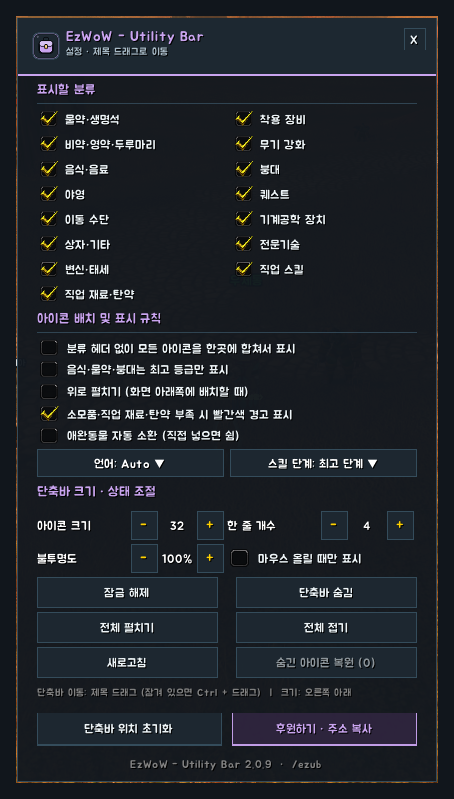
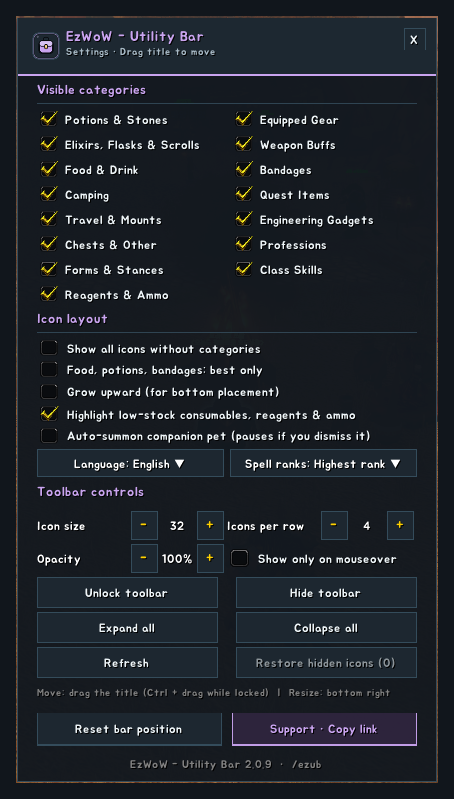
영어 설명용 게임 화면 추가

diff --git a/docs/curseforge_description.md b/docs/curseforge_description.md
@@ -13,7 +13,7 @@ One compact bar for WoW Forever that **collects usable bag items, equipped on-us
 
 ![Settings window](https://raw.githubusercontent.com/qqhrqqhr2/EzWoW-UtilityBar/master/docs/images/settings_en.png)
 
-*In-game screenshots (WoW Forever, Korean client). Character and player names and chat text are blurred.*
+*In-game screenshots with the addon set to English. The game client is Korean, so game text such as zone, item and spell names stays Korean. Character and player names and chat text are blurred.*
 
 ## Features
 

diff --git a/README.md b/README.md
@@ -142,7 +142,7 @@ Utility Bar **collects usable bag items, equipped on-use gear, professions, form
 
 ![Settings window](docs/images/settings_en.png)
 
-> In-game screenshots (WoW Forever, Korean client). Character and player names and chat text are blurred.
+> In-game screenshots with the addon set to English. The game client is Korean, so game text such as zone, item and spell names stays Korean. Character and player names and chat text are blurred.
 
 ### Installation
 
